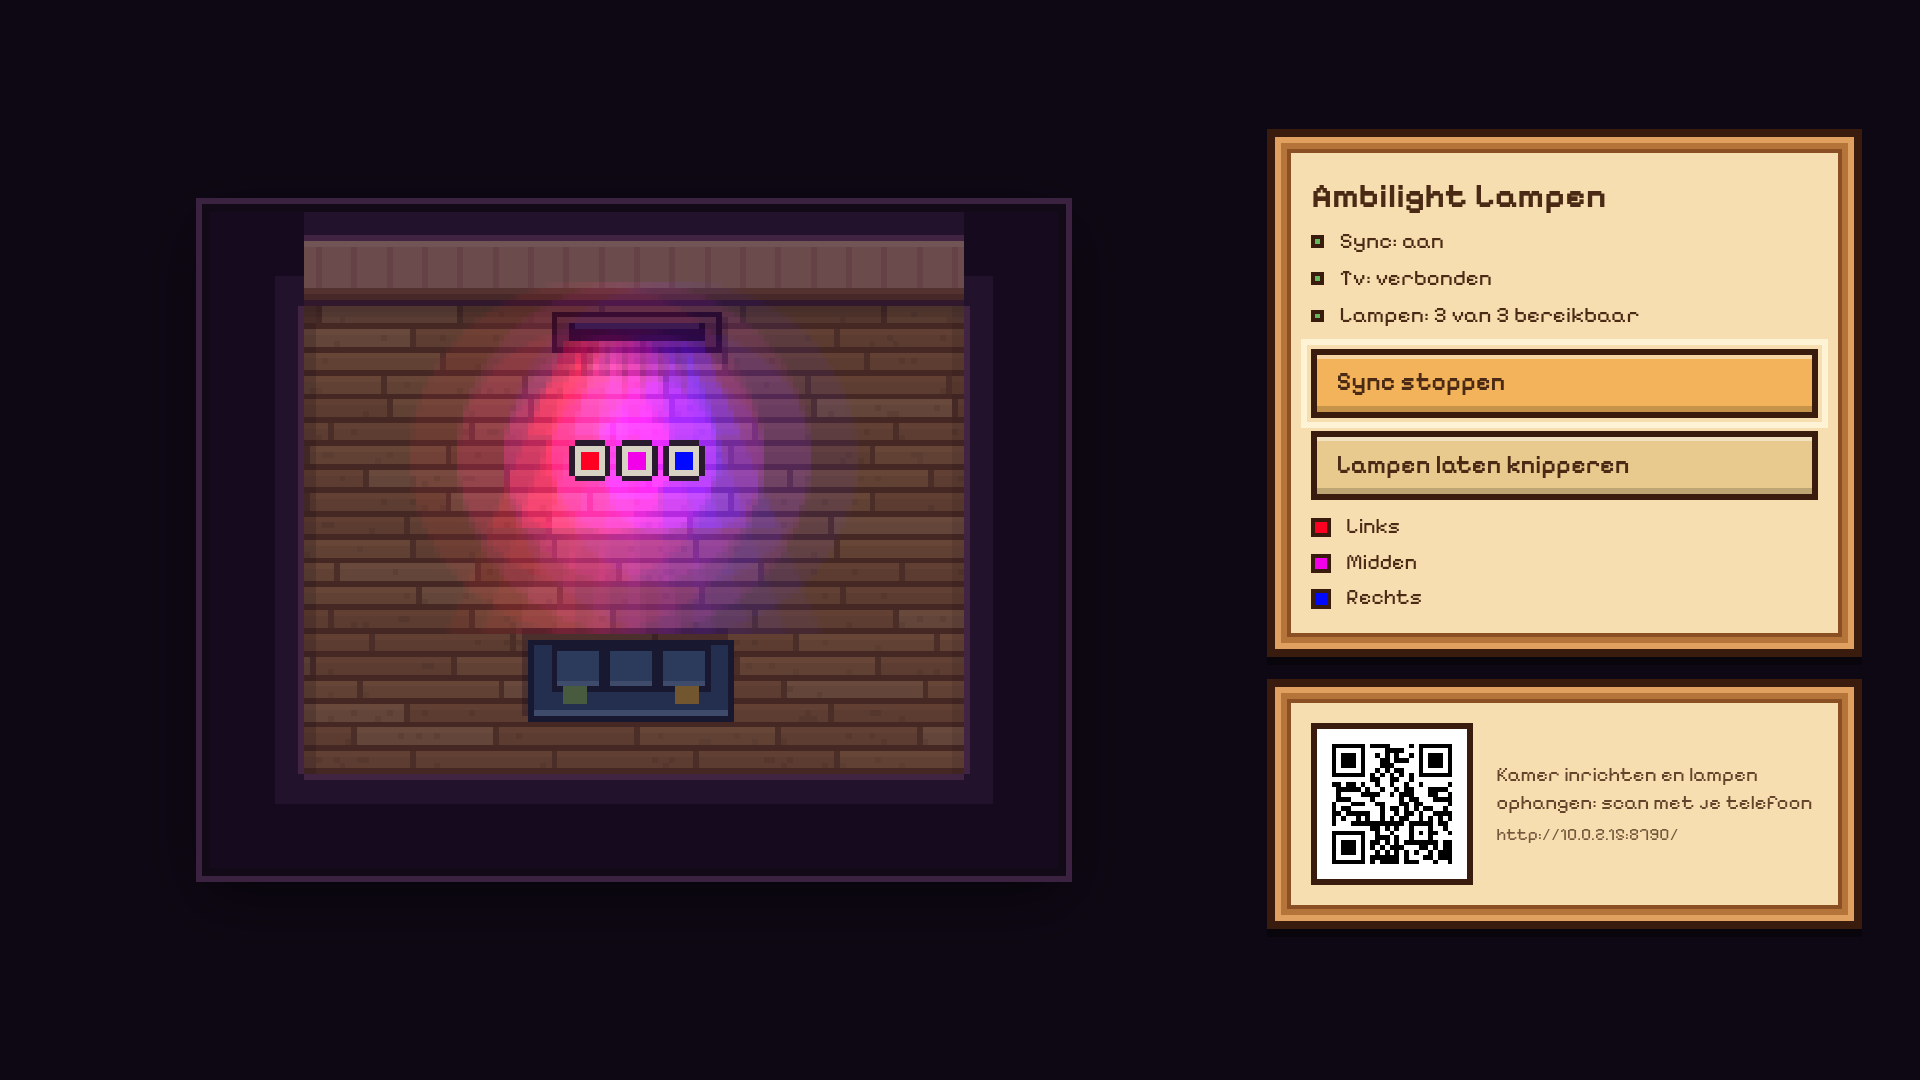
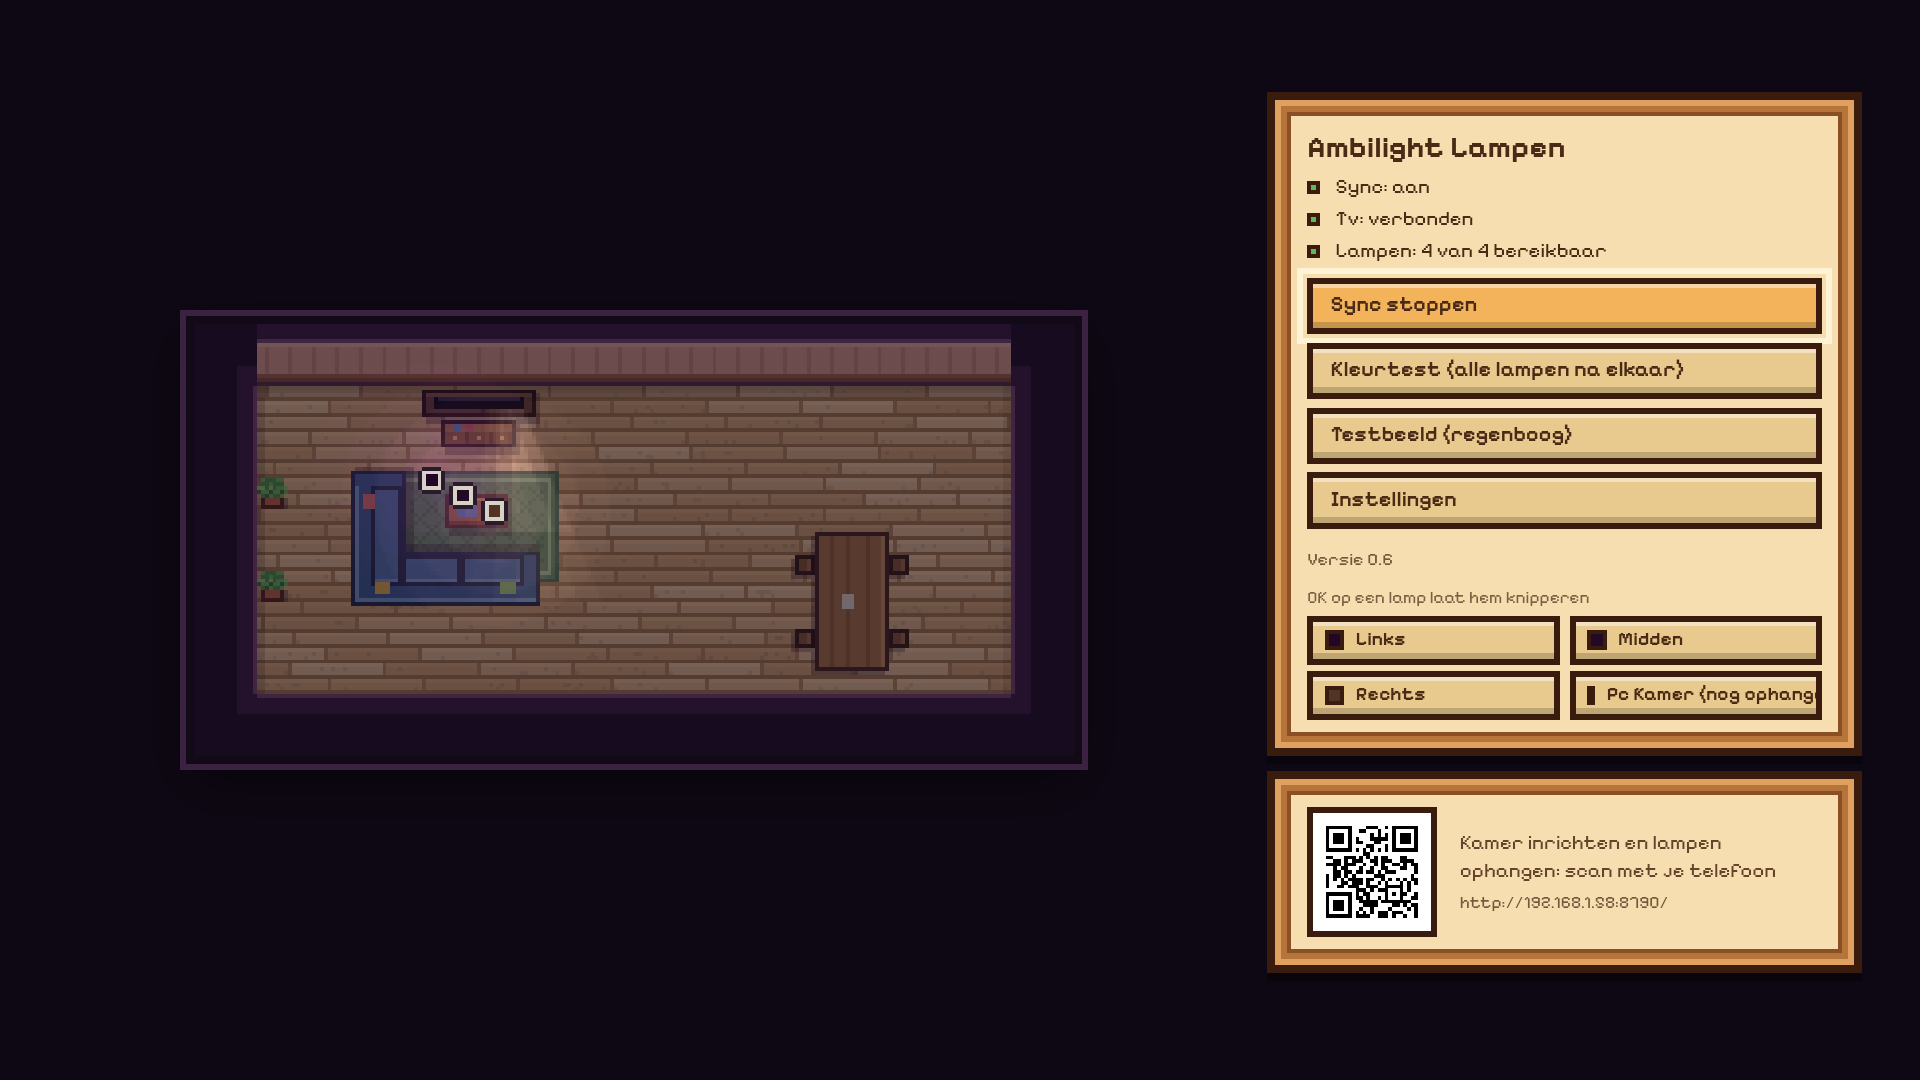
Nieuwe screenshots; editor robuuster op smalle schermen
Versie 0.6.1.

diff --git a/app/src/main/assets/index.html b/app/src/main/assets/index.html
@@ -14,14 +14,14 @@ header h1{font-size:20px;margin:0;flex:1;color:var(--cream);text-shadow:2px 2px 
 #saved{font-size:13px;color:var(--cream);opacity:.85}
 main{max-width:640px;margin:0 auto;padding:0 12px}
 .tools{display:grid;grid-template-columns:repeat(5,1fr);gap:6px;margin-bottom:10px}
-.tools .btn{padding:6px 2px 5px;font-size:13px;display:flex;flex-direction:column;align-items:center;gap:3px}
+.tools .btn{padding:6px 1px 5px;font-size:12px;display:flex;flex-direction:column;align-items:center;gap:3px}
 .tools canvas,.palette canvas{image-rendering:pixelated}
-.mapwrap{background:#1d1124;padding:6px;border:4px solid var(--ink);box-shadow:inset 0 0 0 3px #3b2240;display:flex;justify-content:center}
-#map{display:block;touch-action:none;image-rendering:pixelated}
+.mapwrap{background:#1d1124;padding:6px;border:4px solid var(--ink);box-shadow:inset 0 0 0 3px #3b2240;display:flex;justify-content:center;overflow:hidden;min-width:0}
+#map{display:block;touch-action:none;image-rendering:pixelated;max-width:100%;height:auto!important}
 .sizes{display:flex;justify-content:space-between;gap:10px;margin-top:10px}
 .sizes .row .btn{padding:4px 14px;font-size:18px}
 .palette{display:grid;grid-template-columns:repeat(3,1fr);gap:6px;margin:6px 0 8px}
-.palette .btn{display:flex;flex-direction:column;align-items:center;gap:2px;padding:6px 2px;font-size:12px}
+.palette .btn{display:flex;flex-direction:column;align-items:center;gap:2px;padding:6px 1px;font-size:11px}
 .chips{display:flex;gap:6px;flex-wrap:wrap;margin:6px 0 10px}
 .chip{display:flex;align-items:center;gap:6px;padding:5px 10px;font-size:14px}
 .chip.sel{background:var(--gold);}
@@ -229,7 +229,7 @@ function draw(){
   const key=JSON.stringify(L);
   if(key!==baseKey){baseImg=Room.base(L,lamps);baseKey=key}
   const img=Room.frame(baseImg,L,lamps,live,S&&S.sync,S&&S.top);
-  const maxW=$('mapwrap').clientWidth-20;
+  const maxW=Math.min($('mapwrap').clientWidth,document.documentElement.clientWidth-56)-20;
   view=Room.present($("map"),img,maxW,Math.max(window.innerHeight*0.8,maxW*0.75),true);
   const g=view.g,k=view.scale;
   const sc=(x,y)=>[(x+1)*k,(y+1)*k];
@@ -249,7 +249,7 @@ function draw(){
 /* ---------- aanraken ---------- */
 const snap=v=>Math.round(v*4)/4;
 let drag=null,painting=false;
-function pos(e){const r=$('map').getBoundingClientRect();return [(e.clientX-r.left)/view.scale-1,(e.clientY-r.top)/view.scale-1]}
+function pos(e){const r=$('map').getBoundingClientRect(),k=view.scale*(r.width/view.W);return [(e.clientX-r.left)/k-1,(e.clientY-r.top)/k-1]}
 function paint(mx,my){const x=Math.floor(mx),y=Math.floor(my);if(x<0||y<0||x>=L.w||y>=L.h)return;
   const row=L.floor[y].split(''),v=tool==='floor'?floorMat:'0';if(row[x]!==v){row[x]=v;L.floor[y]=row.join('');changed()}}
 function itemAt(mx,my){for(let i=L.items.length-1;i>=0;i--){const it=L.items[i],def=Room.ITEMS[it.type],rot=((it.dir||90)/90)%2===0;

diff --git a/app/src/main/assets/ui.css b/app/src/main/assets/ui.css
@@ -33,3 +33,10 @@ input[type=file]{font:inherit;max-width:100%}
   box-shadow:inset 0 0 0 2px var(--wood-lt);padding:9px 16px;font-size:15px;opacity:0;transition:opacity .2s;pointer-events:none;max-width:90%;z-index:9}
 #toast.show{opacity:1}
 summary{cursor:pointer;font-weight:600}
+/* Smalle schermen: knoppen in rasters mogen krimpen, rijen mogen afbreken */
+.tools .btn,.palette .btn{min-width:0;overflow-wrap:anywhere;line-height:1.15}
+.lrow{flex-wrap:wrap}
+.lrow .name{flex:1 1 110px}
+html,body{overflow-x:hidden}
+header{flex-wrap:wrap}
+header .btn{padding:6px 10px}

diff --git a/README.md b/README.md
@@ -4,8 +4,13 @@ Nederlands | [English](README.en.md)
 
 Android TV-app die gewone Tuya-wifilampen (Trust, LSC/Action en andere merken die in Smart Life werken) laat meekleuren met het beeld van een Philips Ambilight-tv, een beetje zoals Philips Hue Sync. De app draait op de tv zelf, dus er hoeft geen pc of extra kastje aan te staan.
 
-![Tv-scherm](docs/tv-scherm.png)
-![Met sync aan](docs/tv-scherm-sync.png)
+<p>
+  <img src="docs/tv-scherm.png" width="49%" alt="Tv-scherm overdag">
+  <img src="docs/tv-scherm-sync.png" width="49%" alt="Met sync aan: de kamer wordt donker en de lampen geven gekleurd licht">
+  <img src="docs/tv-testbeeld.png" width="49%" alt="Testbeeld met regenboog en je kamer">
+  <img src="docs/tv-instellingen.png" width="49%" alt="Instellingen op de tv">
+</p>
+<p align="center"><img src="docs/editor.png" width="320" alt="Editor op de telefoon"></p>
 
 ## Wat de app doet
 

diff --git a/README.en.md b/README.en.md
@@ -4,8 +4,13 @@
 
 Android TV app that makes ordinary Tuya Wi-Fi lamps (Trust, LSC/Action and other brands that work with Smart Life) follow the picture of a Philips Ambilight TV, a bit like Philips Hue Sync. The app runs on the TV itself, so no PC or extra box needs to be on.
 
-![TV screen](docs/tv-scherm.png)
-![With sync on](docs/tv-scherm-sync.png)
+<p>
+  <img src="docs/tv-scherm.png" width="49%" alt="TV screen">
+  <img src="docs/tv-scherm-sync.png" width="49%" alt="With sync on: the room goes dark and the lamps cast coloured light">
+  <img src="docs/tv-testbeeld.png" width="49%" alt="Rainbow test pattern with your room">
+  <img src="docs/tv-instellingen.png" width="49%" alt="Settings on the TV">
+</p>
+<p align="center"><img src="docs/editor.png" width="320" alt="Editor on the phone"></p>
 
 ## What it does
 
